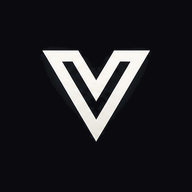
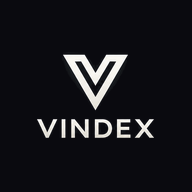
fix(pwa): fit approved lockup inside maskable circle

Changed region(s): [[0.1875, 0.25, 0.8125, 0.75]]

diff --git a/tests/test_website_public.py b/tests/test_website_public.py
@@ -878,6 +878,28 @@ def test_pwa_versioned_icon_assets_are_served_as_sized_pngs(klijent):
         assert (int.from_bytes(r.content[16:20], "big"), int.from_bytes(r.content[20:24], "big")) == expected, ruta
 
 
+def test_pwa_maskable_icons_keep_full_logo_inside_central_circle(klijent):
+    from io import BytesIO
+    import math
+    from PIL import Image
+
+    for ruta, size in (("/static/icon-192-maskable-v6.png", 192), ("/static/icon-512-maskable-v6.png", 512)):
+        response = klijent.get(ruta)
+        assert response.status_code == 200
+        image = Image.open(BytesIO(response.content)).convert("RGB")
+        background = image.getpixel((0, 0))
+        center = (size - 1) / 2
+        foreground = [
+            (x, y)
+            for y in range(size)
+            for x in range(size)
+            if image.getpixel((x, y)) != background
+        ]
+        assert foreground, ruta
+        assert max(math.hypot(x - center, y - center) for x, y in foreground) <= size * 0.40, ruta
+        assert any(y > size * 0.60 for _, y in foreground), f"{ruta}: puni VINDEX natpis nedostaje"
+
+
 def test_public_pages_reference_new_favicon_and_apple_icon_without_manifest(klijent):
     for ruta in STRANICE:
         html = _tekst(klijent, ruta)
